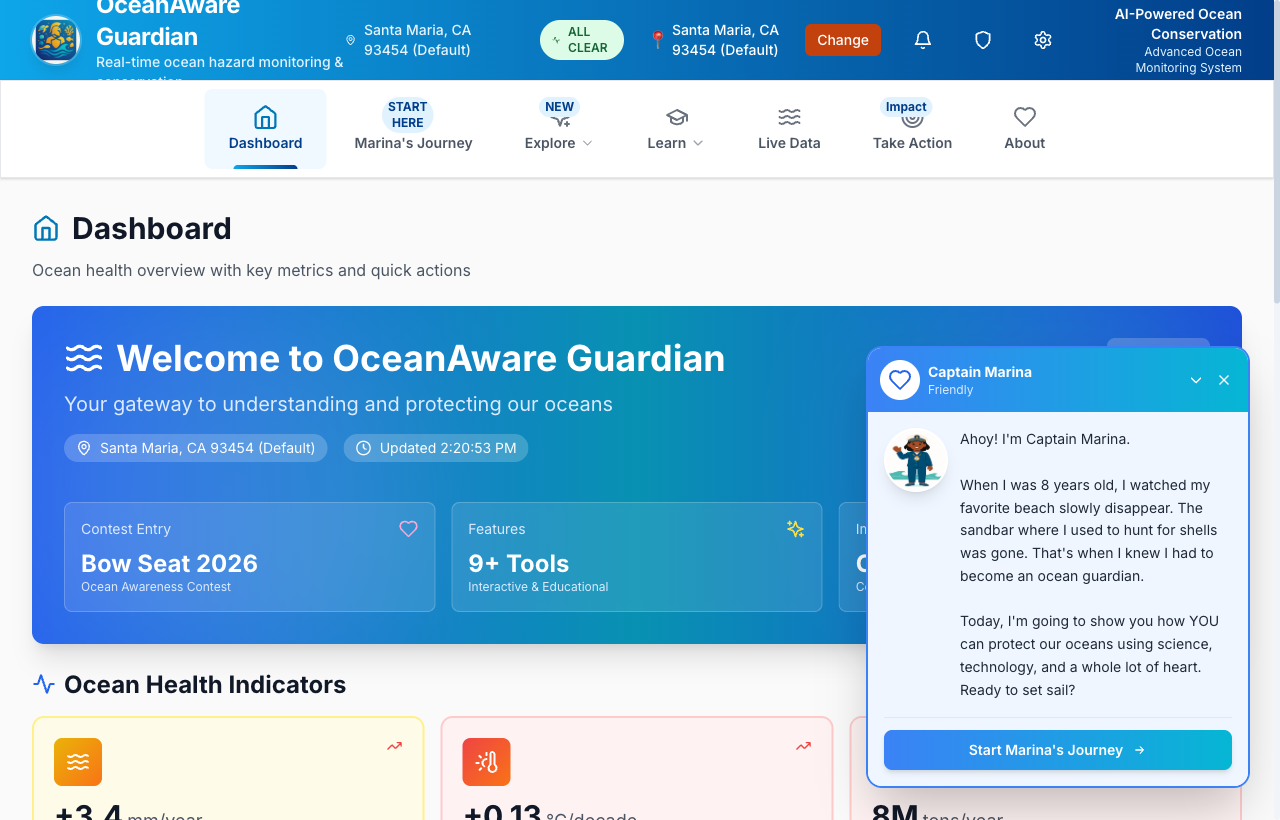
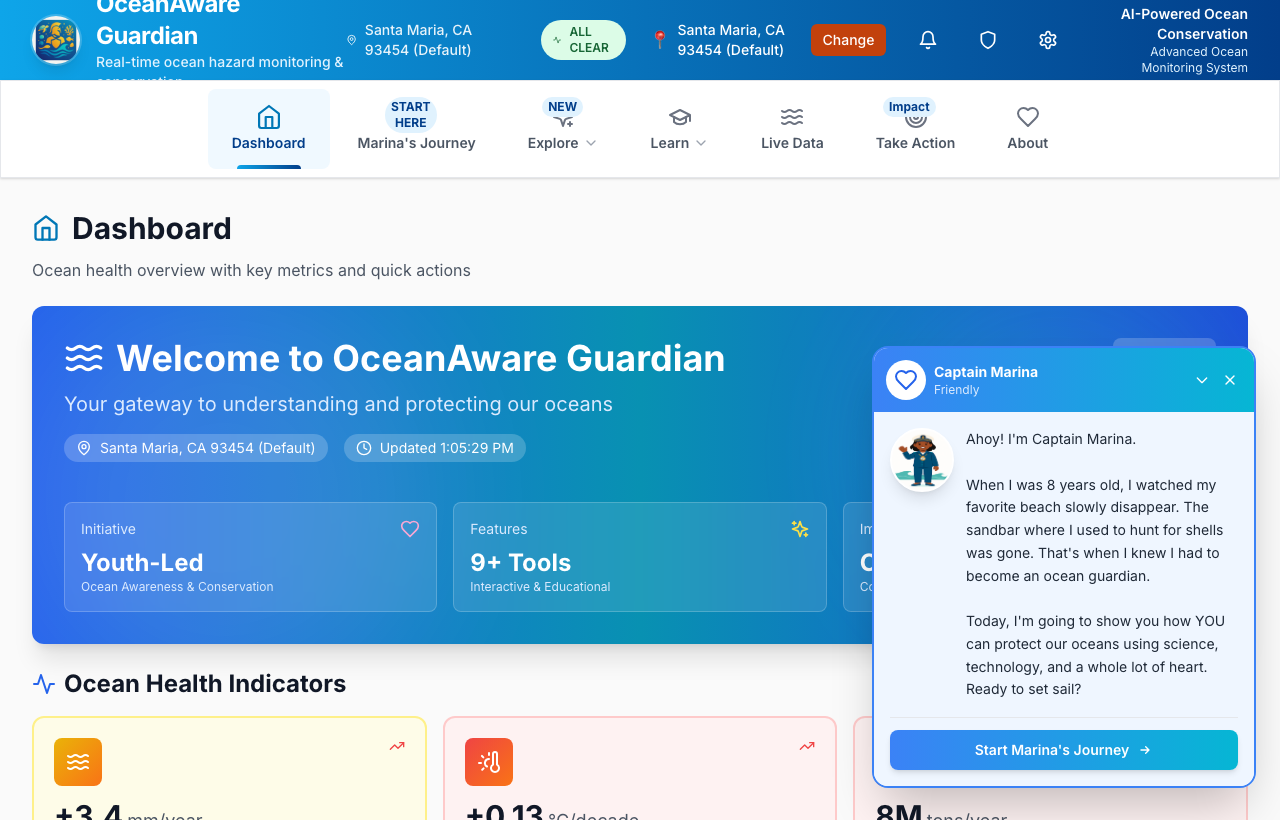
fix: re-capture OceanAware screenshot, correct seminar art, add Shruthi
The Bow Seat retraction was incomplete. Commit 573d3a7 removed the claim from
the site's text and the app was corrected separately, but
public/images/apps/oceanaware.png still showed a "Contest Entry - Bow Seat 2026"
card on the homepage, blog index, blog post, resources, and programs pages.
EcoQuest never entered Bow Seat. The screenshot is re-captured from the live app,
where the card now correctly reads "Initiative / Youth-Led". Text searches came
back clean this whole time while the claim survived in a PNG.

The programs page illustrated the Online Seminar Series with a photo of four
students at a park cleanup - people, outdoors, nothing to do with an online
seminar, and captioned "Online Seminars" over the top of them. Replaced with the
series banner, which states the real schedule. The series banner itself still
listed Oct 24 as "Build an app" and is re-rendered for the MindMirror pivot.

Adds Shruthi as Vice President of Education and widens the leadership grid to
three columns.

diff --git a/src/app/programs/page.tsx b/src/app/programs/page.tsx
@@ -96,16 +96,13 @@ export default function Programs() {
                 See Dates &amp; Register
               </Link>
             </div>
-            <div className="rounded-2xl overflow-hidden h-96 relative shadow-lg bg-gray-100">
+            <div className="rounded-2xl overflow-hidden shadow-lg bg-gray-100 aspect-[2/1]">
               <img
-                src="/images/events/B6239CD9-5DBE-451E-A9D3-60DBD6FDA6FE.jpeg"
-                alt="Student volunteers who take part in EcoQuest programs"
+                src="/images/seminar-series-banner.png"
+                alt="EcoQuest Foundation Online Seminar Series — free, every other Saturday, 11:00 to 11:40 AM Pacific on Zoom"
                 className="w-full h-full object-cover"
                 loading="lazy"
               />
-              <div className="absolute inset-x-0 bottom-0 bg-gradient-to-t from-black/70 to-transparent p-6">
-                <h3 className="text-3xl font-bold text-white drop-shadow">Online Seminars</h3>
-              </div>
             </div>
           </div>
         </div>

diff --git a/src/app/about/page.tsx b/src/app/about/page.tsx
@@ -78,10 +78,11 @@ export default function About() {
               The students driving EcoQuest Foundation's mission forward.
             </p>
           </div>
-          <div className="grid grid-cols-1 sm:grid-cols-2 gap-8 max-w-2xl mx-auto">
+          <div className="grid grid-cols-1 sm:grid-cols-2 lg:grid-cols-3 gap-8 max-w-4xl mx-auto">
             {[
               { name: 'Siddharth', role: 'Founder & President', img: '/images/team/Siddharth.png' },
               { name: 'Aditya', role: 'Vice President of Events', img: '/images/team/Aditya.png' },
+              { name: 'Shruthi', role: 'Vice President of Education', img: '/images/team/Shruthi_2.png' },
             ].map((member) => (
               <div key={member.name} className="card card-hover text-center">
                 <div className="aspect-square overflow-hidden bg-gray-100">

diff --git a/docs/eventbrite/ecoquest-series-banner.html b/docs/eventbrite/ecoquest-series-banner.html
@@ -46,7 +46,7 @@
       <div class="d">Sep 12<span>Wildfire data</span></div>
       <div class="d">Sep 26<span>Beach cleanups</span></div>
       <div class="d">Oct 10<span>Home footprint</span></div>
-      <div class="d">Oct 24<span>Build an app</span></div>
+      <div class="d">Oct 24<span>Climate anxiety</span></div>
       <div class="d">Nov 7<span>Local conservation</span></div>
     </div>
     <div class="site">

diff --git a/docs/eventbrite/README.md b/docs/eventbrite/README.md
@@ -25,10 +25,15 @@ used here: some are Scout-attributed, and none are needed.
 not exist. It is fine as decorative art on the website, but it must not go on an
 event listing, where it reads as a photo of a real EcoQuest session.
 
-**`public/images/apps/oceanaware.png` must not be used.** The screenshot contains
-a "Contest Entry — Bow Seat 2026" card. EcoQuest never entered Bow Seat, and
-commit 573d3a7 removed that claim from the site's text. Putting the screenshot on
-a listing would republish the claim as a picture.
+**`public/images/apps/oceanaware.png` was re-captured for this reason.** The old
+screenshot showed a "Contest Entry — Bow Seat 2026" card. EcoQuest never entered
+Bow Seat. Commit 573d3a7 removed the claim from the site's text and the app
+itself was fixed separately, but the stale screenshot kept republishing it as a
+picture on four pages long after the words were gone.
+
+The lesson generalises: **a retraction is not finished until the images are
+re-captured too.** Text greps clean while a claim survives in a PNG. When a
+claim is pulled, re-shoot every screenshot that showed it.
 
 An app screenshot is only paired with a session when the app genuinely relates to
 it, and the caption states what the app is — never what the session will cover.
